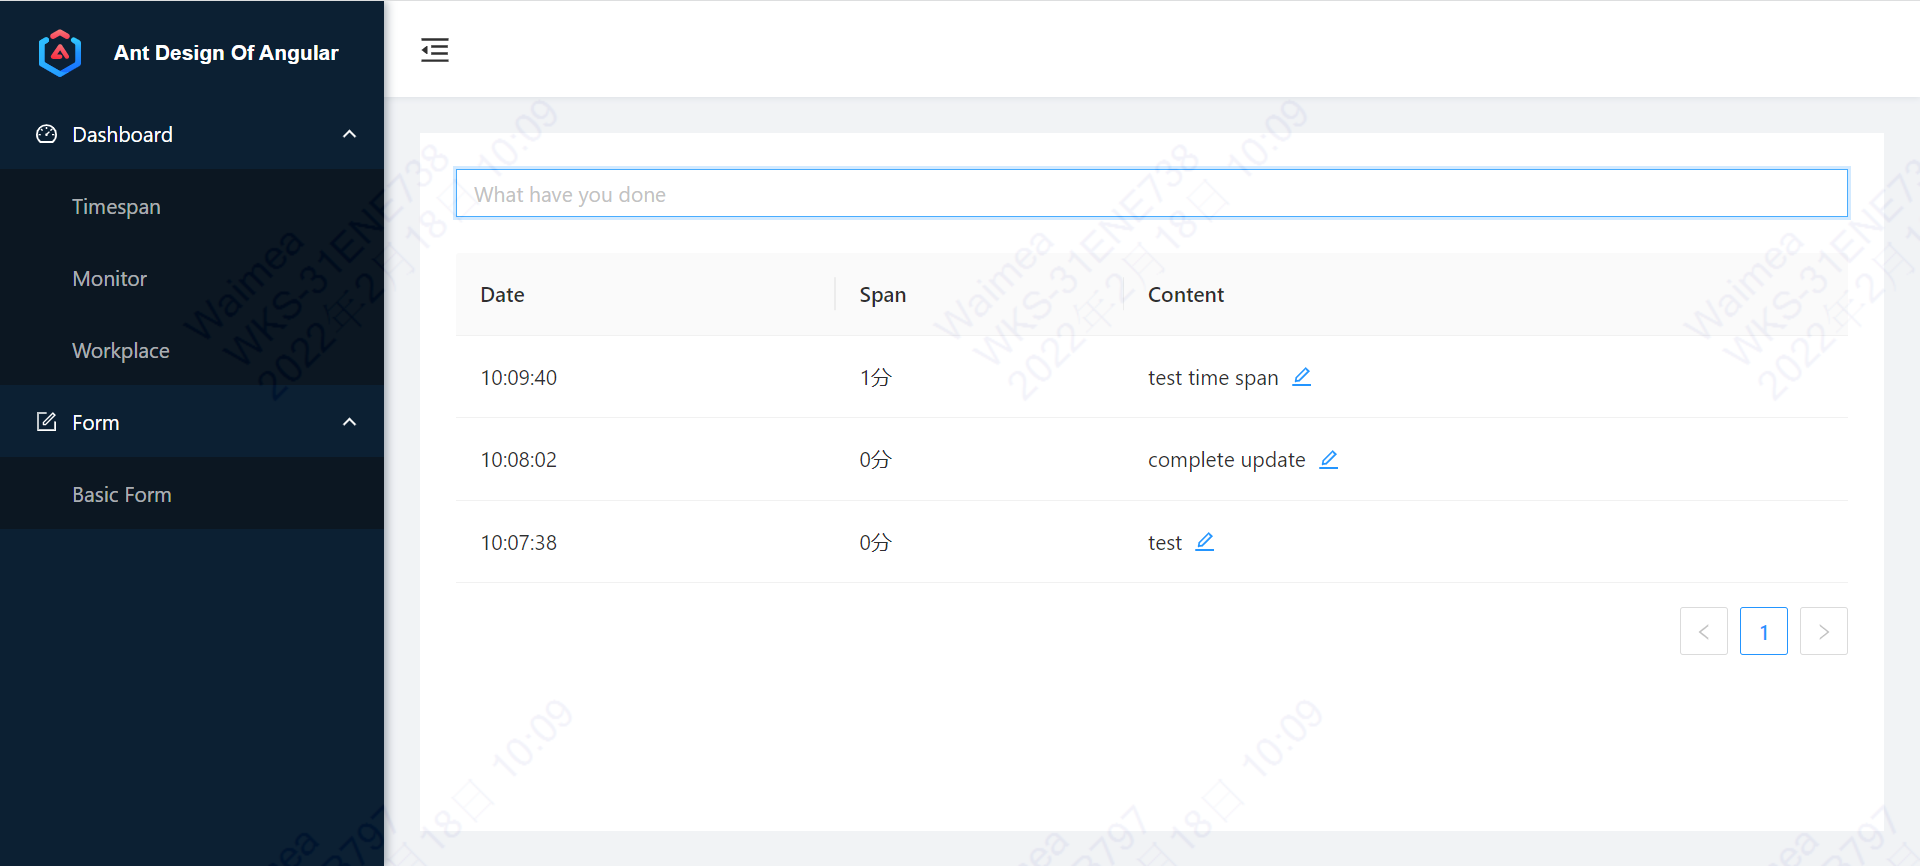
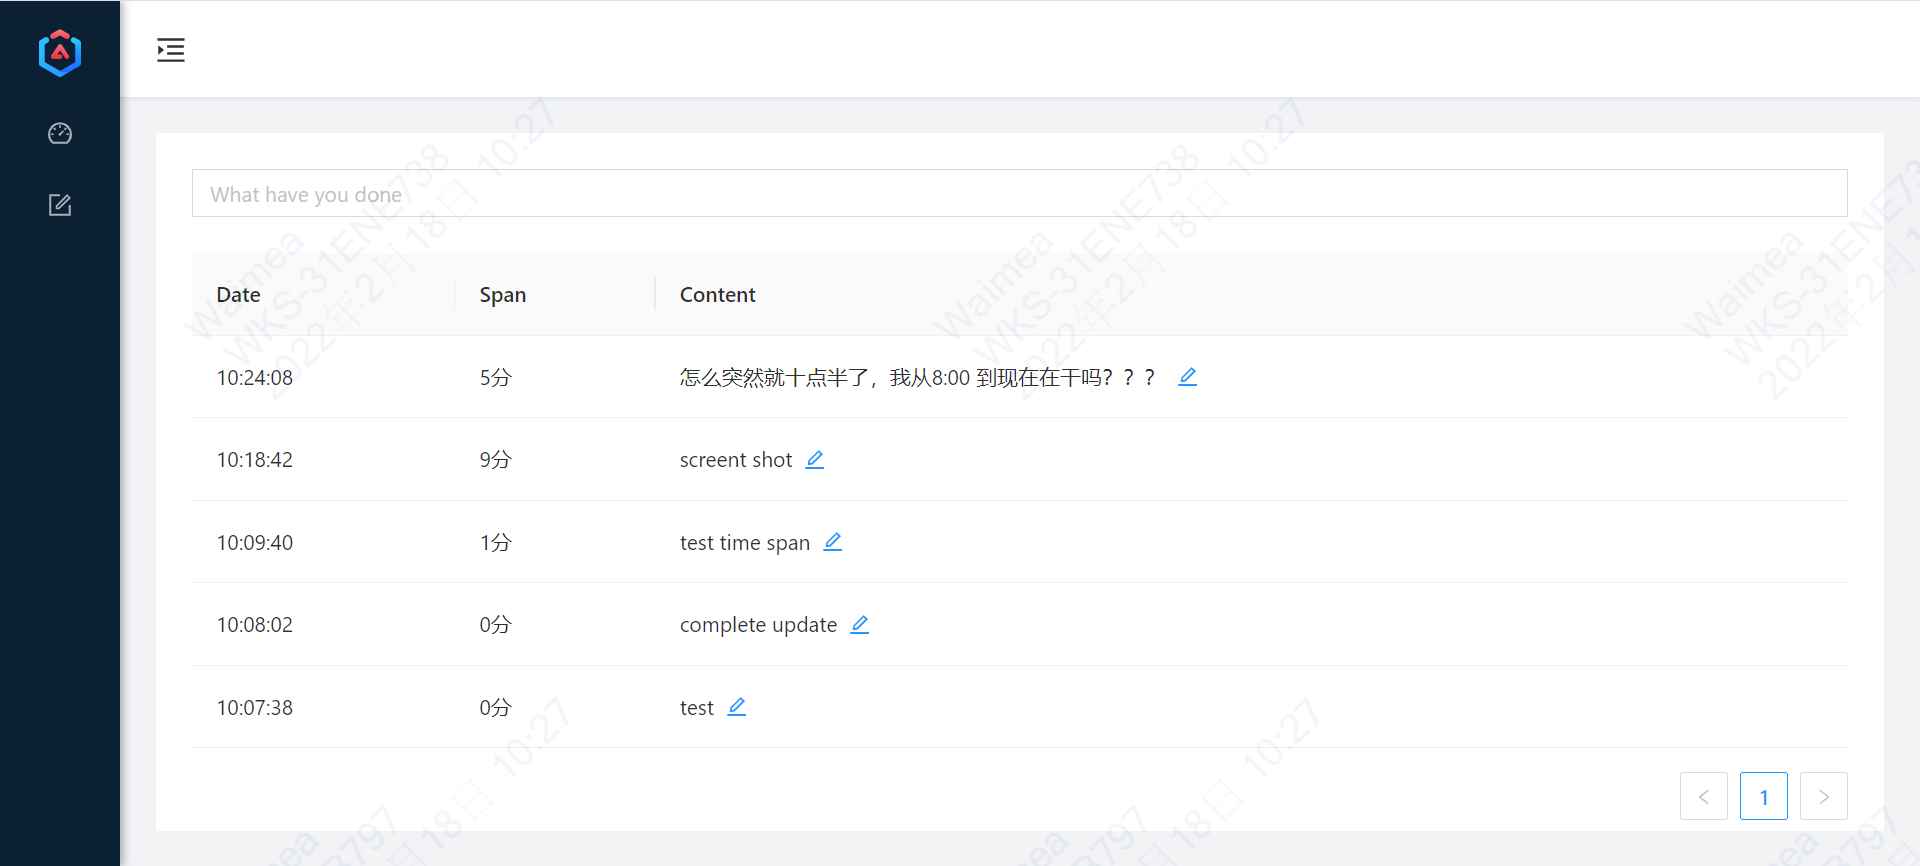
📃 docs: update readme

diff --git a/README.md b/README.md
@@ -2,6 +2,10 @@
 
 用来管理每件事浪费了多少时间
 
+## 项目展示
+
+![主页](./homepage.png)
+
 ## 如何使用
 
 ### 一、创建自己的 repository
